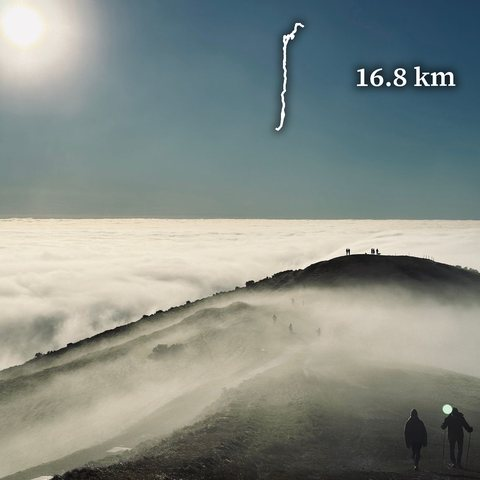
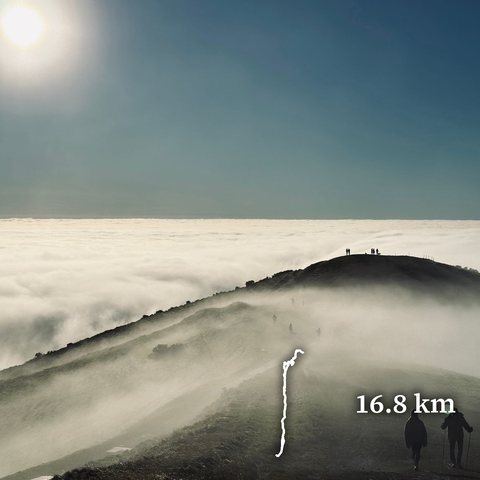
Side projects before Hobbies; route trace and distance always bottom-right
Outside research now opens with the side projects, followed by a Hobbies
heading for the routes and colour tiles. The route covers put the trace
and distance in the bottom-right corner on every tile.

diff --git a/index.html b/index.html
@@ -214,6 +214,32 @@
 
 <section id="outside">
   <h2>Outside research</h2>
+  <h3>Side projects</h3>
+  <p>Small things I wrote while teaching myself Python, 2022–2023.</p>
+  <div class="tiles">
+    <a class="tile" href="https://github.com/JiaWeiTeh/gpx_vis">
+      <img src="projects/gpx_vis.jpg" alt="A cycling track on a dark map, coloured by elevation" width="480" height="480" loading="lazy">
+      <span class="tile-title">gpx_vis <span class="year">2023</span></span>
+      <span class="tile-text">Turns GPX tracks into interactive elevation maps</span>
+    </a>
+    <a class="tile" href="https://github.com/JiaWeiTeh/gelato">
+      <span class="tile-img tile-type" aria-hidden="true"><span class="der">der</span><span class="die">die</span><span class="das">das</span></span>
+      <span class="tile-title">GELATO <span class="year">2022</span></span>
+      <span class="tile-text">A terminal quiz for German articles and verbs</span>
+    </a>
+    <a class="tile" href="https://github.com/JiaWeiTeh/ballgame">
+      <img class="contain" src="projects/ballgame.gif" alt="Self-playing Pong screensaver" width="768" height="396" loading="lazy">
+      <span class="tile-title">BallGame <span class="year">2022</span></span>
+      <span class="tile-text">A self-playing Pong screensaver, in matplotlib</span>
+    </a>
+    <a class="tile" href="https://github.com/JiaWeiTeh/BounceGame">
+      <img src="projects/bouncegame.gif" alt="A ball bouncing inside a circular wall" width="320" height="320" loading="lazy">
+      <span class="tile-title">BounceGame <span class="year">2022</span></span>
+      <span class="tile-text">A ball bouncing in a circle under gravity and drag, in matplotlib</span>
+    </a>
+  </div>
+
+  <h3>Hobbies</h3>
   <p>
     Outside work I like hiking, taking photos, and picking a town on the map more or less at
     random and cycling there. I also boulder, play the piano, and care a lot about how colour
@@ -242,31 +268,6 @@
       <span class="tile-text todo">[mini project]</span>
     </div>
     -->
-  </div>
-
-  <h3>Side projects</h3>
-  <p>Small things I wrote while teaching myself Python, 2022–2023.</p>
-  <div class="tiles">
-    <a class="tile" href="https://github.com/JiaWeiTeh/gpx_vis">
-      <img src="projects/gpx_vis.jpg" alt="A cycling track on a dark map, coloured by elevation" width="480" height="480" loading="lazy">
-      <span class="tile-title">gpx_vis <span class="year">2023</span></span>
-      <span class="tile-text">Turns GPX tracks into interactive elevation maps</span>
-    </a>
-    <a class="tile" href="https://github.com/JiaWeiTeh/gelato">
-      <span class="tile-img tile-type" aria-hidden="true"><span class="der">der</span><span class="die">die</span><span class="das">das</span></span>
-      <span class="tile-title">GELATO <span class="year">2022</span></span>
-      <span class="tile-text">A terminal quiz for German articles and verbs</span>
-    </a>
-    <a class="tile" href="https://github.com/JiaWeiTeh/ballgame">
-      <img class="contain" src="projects/ballgame.gif" alt="Self-playing Pong screensaver" width="768" height="396" loading="lazy">
-      <span class="tile-title">BallGame <span class="year">2022</span></span>
-      <span class="tile-text">A self-playing Pong screensaver, in matplotlib</span>
-    </a>
-    <a class="tile" href="https://github.com/JiaWeiTeh/BounceGame">
-      <img src="projects/bouncegame.gif" alt="A ball bouncing inside a circular wall" width="320" height="320" loading="lazy">
-      <span class="tile-title">BounceGame <span class="year">2022</span></span>
-      <span class="tile-text">A ball bouncing in a circle under gravity and drag, in matplotlib</span>
-    </a>
   </div>
 </section>
 
